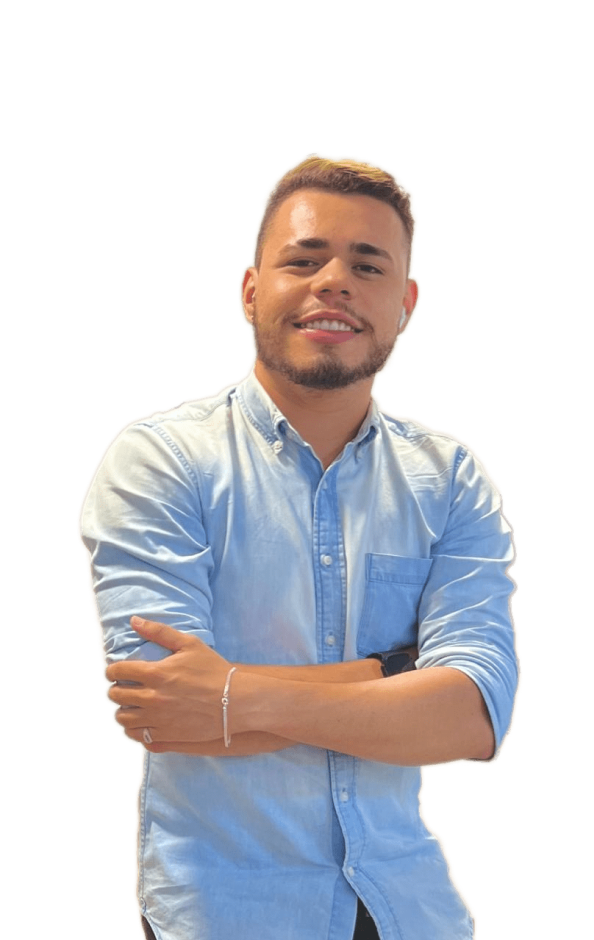
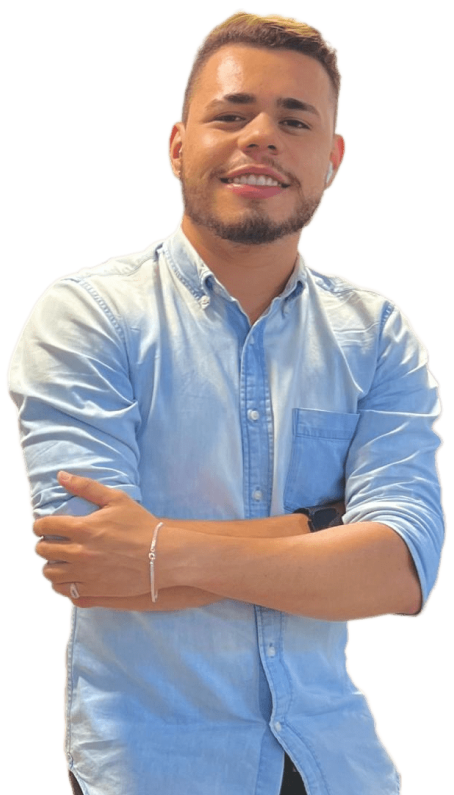
responsividade - ajustes gerais no projeto / pagina about

diff --git a/src/app/components/page-about.tsx b/src/app/components/page-about.tsx
@@ -6,36 +6,45 @@ import { ContactButton } from '@/components/contact-button'
 
 export function About() {
   return (
-    <div id="about" className="mt-16">
+    <div id="about" className="mx-5 mt-40 md:mx-0">
       <Title>Sobre mim</Title>
-      <div className="mt-[30px] px-5">
+      <div className="mt-[30px]">
         <Card>
-          Olá! Meu nome é{' '}
-          <span className="font-semibold text-blue-text">Rodrigo Freitas</span>{' '}
-          e sou{' '}
-          <span className="font-semibold text-blue-text">
-            {' '}
-            psicanalista e terapeuta há mais de 10 anos
-          </span>
-          . Meu trabalho é criar um espaço seguro para você explorar suas
-          emoções e encontrar soluções para seus problemas. <br />
-          <br /> Minha abordagem é empática e profunda, buscando promover
-          mudanças positivas na sua vida. A terapia é uma experiência
-          transformadora que ajuda você a se conhecer melhor e a viver com mais
-          autenticidade. <br />
-          <br /> Usando psicanálise e técnicas terapêuticas modernas, ofereço um
-          atendimento personalizado que se adapta às suas necessidades. Vamos
-          juntos construir uma vida melhor. Agende sua consulta!
-          <Image
-            src={photo}
-            alt="Rodrigo's photo"
-            width="350"
-            height="927"
-            className="-mb-[20px] ml-12"
-          />
+          <div className="grid grid-cols-1 gap-5 md:-mb-[40px] md:max-h-[740px] md:grid-cols-2 md:grid-rows-3">
+            <div className="">
+              Olá! Meu nome é{' '}
+              <span className="font-semibold text-blue-text">
+                Rodrigo Freitas
+              </span>{' '}
+              e sou{' '}
+              <span className="font-semibold text-blue-text">
+                {' '}
+                psicanalista e terapeuta há mais de 10 anos
+              </span>
+              . Meu trabalho é criar um espaço seguro para você explorar suas
+              emoções e encontrar soluções para seus problemas. <br />
+              <br /> Minha abordagem é empática e profunda, buscando promover
+              mudanças positivas na sua vida. A terapia é uma experiência
+              transformadora que ajuda você a se conhecer melhor e a viver com
+              mais autenticidade. <br />
+              <br /> Usando psicanálise e técnicas terapêuticas modernas,
+              ofereço um atendimento personalizado que se adapta às suas
+              necessidades. Vamos juntos construir uma vida melhor. Agende sua
+              consulta!
+            </div>
+            <div className="flex h-24 justify-center md:col-start-1 md:row-start-2 md:mt-20">
+              <ContactButton />
+            </div>
+            <Image
+              src={photo}
+              alt="Rodrigo's photo"
+              width="590"
+              height="940"
+              className="-mb-[20px] ml-12 max-h-[927px] max-w-[350px] md:row-span-full md:ml-auto md:max-h-[740px] md:max-w-[450px]"
+              quality={100}
+            />
+          </div>
         </Card>
-
-        <ContactButton />
       </div>
     </div>
   )

diff --git a/src/app/components/page-call.tsx b/src/app/components/page-call.tsx
@@ -2,8 +2,8 @@ import { ContactButton } from '@/components/contact-button'
 import { ImageCall } from '@/components/image-call'
 export function Call() {
   return (
-    <div className="mx-5 min-h-screen rounded-b-lg md:mx-0">
-      <div className="container h-[620px] bg-blue-light-background shadow-sm shadow-blue-light-background md:-mt-20 md:flex md:h-full md:rounded-lg md:bg-white md:p-0">
+    <div className="mx-0 min-h-screen rounded-b-lg md:min-h-fit">
+      <div className="container h-[620px] rounded-lg bg-blue-light-background shadow-sm shadow-blue-light-background md:-mt-20 md:flex md:h-full md:rounded-lg md:bg-white md:p-0">
         <div id="call" className="flex flex-col px-5">
           <h1 className="mx-auto text-balance pt-10 text-center text-2xl font-semibold">
             Ajudo você a se encontrar e aceitar a vida real e não a ideal
@@ -15,7 +15,7 @@ export function Call() {
             significativa
           </p>
 
-          <div className="mt-auto">
+          <div className="mt-auto flex justify-center">
             <ContactButton />
           </div>
         </div>

diff --git a/src/components/image-call.tsx b/src/components/image-call.tsx
@@ -1,16 +1,15 @@
 'use client'
 import { useMediaQuery } from 'react-responsive'
 import Image from 'next/image'
-import photo from '@/assets/photo-1.png'
-import photoDesktop from '@/assets/photo-1-desktop.png'
+import photo from '@/assets/photo-call.png'
 
 export function ImageCall() {
   const isMobile = useMediaQuery({ query: '(max-width: 390px)' })
 
   return (
-    <div className="mx-auto -mt-32 transform  overflow-hidden rounded-lg md:mt-0  md:h-full md:w-[1194px]">
+    <div className="mx-auto -mt-32 aspect-square  transform overflow-hidden rounded-full md:mt-0 md:aspect-auto md:h-full  md:w-[1194px] md:rounded-lg">
       <Image
-        src={isMobile ? photo : photoDesktop}
+        src={photo}
         width={isMobile ? '1194' : '590'}
         height={isMobile ? '1326' : '660'}
         alt="Rodrigo's photo"

diff --git a/src/app/page.tsx b/src/app/page.tsx
@@ -7,13 +7,15 @@ import { Psicanalise } from './components/page-psicanalise'
 
 export default function Home() {
   return (
-    <main className="flex flex-col">
+    <main className="flex flex-col ">
       <Call />
-      <Psicanalise />
-      <About />
-      <Depoimentos />
-      <Palestras />
-      <Faq />
+      <div className="container px-0">
+        <Psicanalise />
+        <About />
+        <Depoimentos />
+        <Palestras />
+        <Faq />
+      </div>
     </main>
   )
 }

diff --git a/src/components/contact-button.tsx b/src/components/contact-button.tsx
@@ -15,7 +15,7 @@ export function ContactButton() {
   return (
     <Button
       onClick={handleContact}
-      className="mb-40 mt-10 w-full animate-bounce rounded-full bg-blue-background py-7 font-bold uppercase hover:bg-blue-background/80"
+      className="mb-40 mt-10 w-full max-w-[350px] animate-bounce rounded-full bg-blue-background py-7 font-bold uppercase hover:bg-blue-background/80"
     >
       Agendar atendimento
     </Button>

diff --git a/src/components/card.tsx b/src/components/card.tsx
@@ -8,7 +8,7 @@ interface CardProps {
 
 export function Card({ icon, title, children }: CardProps) {
   return (
-    <div className="text-pretty rounded-md bg-blue-light-background p-5">
+    <div className="text-pretty rounded-md bg-blue-light-background p-5 md:p-10">
       {icon && (
         <div className="mb-4 flex items-center gap-1">
           <div className="rounded-md bg-blue-background p-1">{icon}</div>

diff --git a/src/app/layout.tsx b/src/app/layout.tsx
@@ -22,7 +22,7 @@ export default function RootLayout({
   return (
     <html lang="en" className="scroll-smooth">
       <body className={openSans.className}>
-        <div>
+        <div className="overflow-x-hidden">
           <Header />
           <div className="fixed bottom-10 right-6 z-50 flex flex-col items-center gap-5 md:left-0 md:mx-auto md:w-[1280px] md:items-end md:pr-4">
             <Link

diff --git a/src/app/components/page-psicanalise.tsx b/src/app/components/page-psicanalise.tsx
@@ -4,7 +4,7 @@ import { BookOpen, HandHeart, Search } from 'lucide-react'
 
 export function Psicanalise() {
   return (
-    <div id="psicanalise" className="mx-auto mt-16 px-5">
+    <div id="psicanalise" className="mx-5 mt-40 md:mx-0">
       <Title>Como a psicanálise ajuda?</Title>
       <div className="mt-[30px] flex flex-col gap-5">
         <Card
